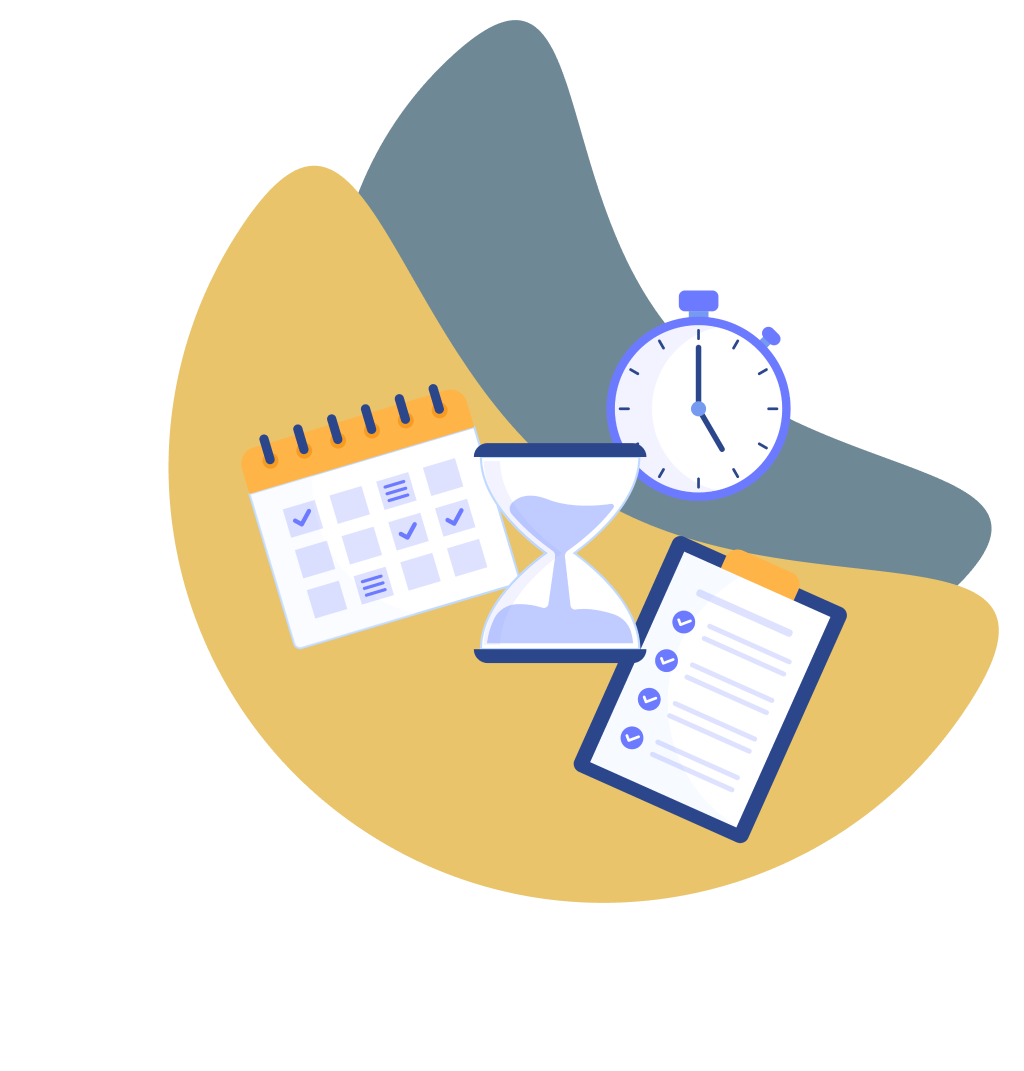
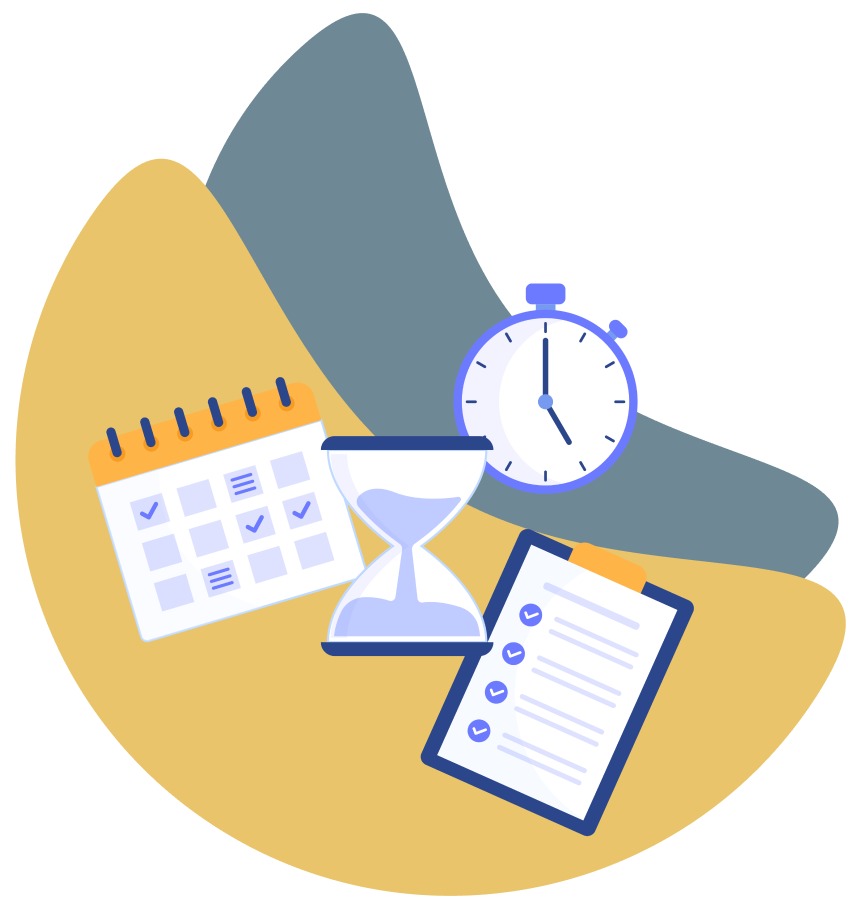
adding waiting screen

diff --git a/lib/screens/waiting_screen.dart b/lib/screens/waiting_screen.dart
@@ -1,0 +1,93 @@
+import 'package:flutter/material.dart';
+
+class WaitingScreen extends StatefulWidget {
+  const WaitingScreen({super.key});
+
+  @override
+  State<WaitingScreen> createState() => _WaitingScreenState();
+}
+
+class _WaitingScreenState extends State<WaitingScreen> {
+  @override
+  Widget build(BuildContext context) {
+    return Directionality(
+      textDirection: TextDirection.rtl,
+      child: Scaffold(
+        body: Center(
+          child: FractionallySizedBox(
+            widthFactor: 0.9,
+            heightFactor: 0.8,
+            child: ClipRRect(
+              borderRadius: const BorderRadius.only(
+                topLeft: Radius.circular(500),
+                topRight: Radius.circular(500),
+              ),
+              child: Container(
+                color: Theme.of(context).primaryColor,
+                child: Column(
+                  children: [
+                    Padding(
+                      padding: const EdgeInsets.symmetric(
+                        horizontal: kToolbarHeight * 0.5,
+                        vertical: kTextTabBarHeight,
+                      ),
+                      child: Image.asset(
+                        'assets/images/waitingprofile.png',
+                        fit: BoxFit.contain,
+                      ),
+                    ),
+                    const SizedBox(
+                      height: kToolbarHeight * 0.4,
+                    ),
+                    Text(
+                      'احراز هویت و مدارک شما، در دست بررسی می باشد',
+                      style: TextStyle(
+                        color: Theme.of(context).colorScheme.background,
+                      ),
+                    ),
+                    const SizedBox(
+                      height: kToolbarHeight * 0.4,
+                    ),
+                    Text(
+                      'از شکیبایی شما سپاس گذاریم',
+                      style: TextStyle(
+                        color: Theme.of(context).colorScheme.background,
+                      ),
+                    ),
+                    const SizedBox(
+                      height: kToolbarHeight * 0.4,
+                    ),
+                    Material(
+                      borderRadius: BorderRadius.circular(12),
+                      child: InkWell(
+                        borderRadius: BorderRadius.circular(12),
+                        onTap: () {},
+                        child: const Padding(
+                          padding: EdgeInsets.symmetric(
+                            vertical: kToolbarHeight * 0.2,
+                            horizontal: kToolbarHeight * 0.5,
+                          ),
+                          child: Row(
+                            mainAxisSize: MainAxisSize.min,
+                            mainAxisAlignment: MainAxisAlignment.center,
+                            children: [
+                              Text('ویرایش اطلاعات '),
+                              Icon(
+                                Icons.arrow_forward_ios,
+                                size: 16,
+                              ),
+                            ],
+                          ),
+                        ),
+                      ),
+                    ),
+                  ],
+                ),
+              ),
+            ),
+          ),
+        ),
+      ),
+    );
+  }
+}

diff --git a/lib/main.dart b/lib/main.dart
@@ -11,7 +11,7 @@ import 'package:flutter/material.dart';
 import 'package:provider/provider.dart';
 import 'package:shared_preferences/shared_preferences.dart';
 import 'package:transportationdriver/providers/driver_data.dart';
-import 'package:transportationdriver/screens/driver_profile_screen.dart';
+import 'package:transportationdriver/screens/waiting_screen.dart';
 import 'screens/auth/auth_screen.dart';
 import 'screens/search_driver_screen.dart';
 import 'package:url_strategy/url_strategy.dart';
@@ -146,7 +146,8 @@ class MyMaterial extends StatelessWidget {
       },
       // onGenerateRoute: (route) {},
       home: Provider.of<AuthData>(context).accessToken != ""
-          ? const DriverProfileScreen()
+          // ? const DriverProfileScreen()
+          ? const WaitingScreen()
           : const AuthScreen(),
     );
   }
